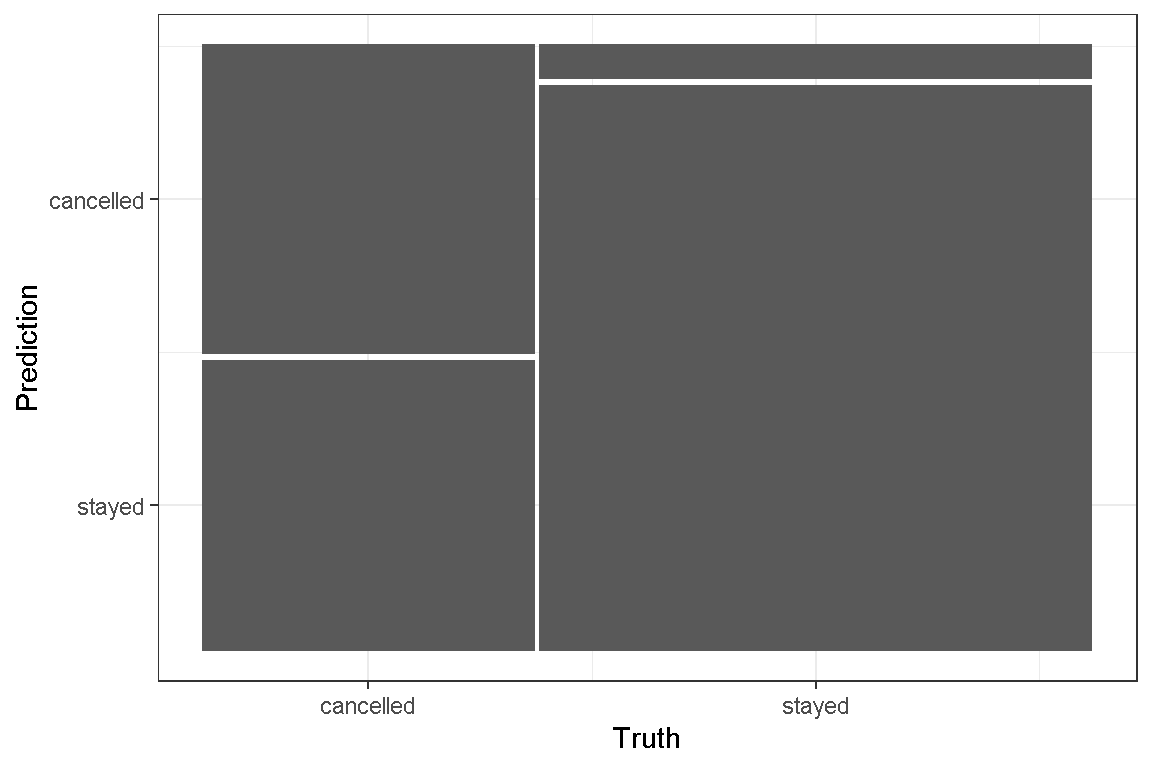
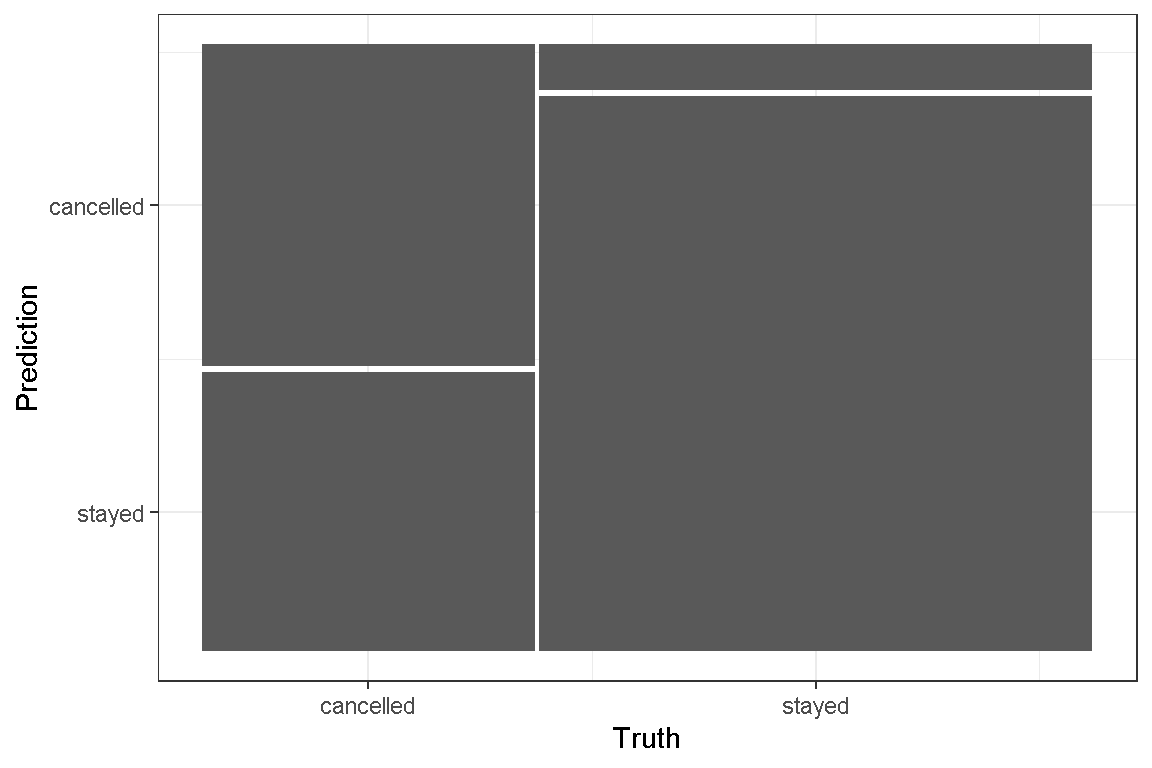
Add files via upload
manual commit

diff --git a/docs/ml/2024-02-10-hotel-cancellation/index.html b/docs/ml/2024-02-10-hotel-cancellation/index.html
@@ -123,12 +123,12 @@ code span.wa { color: #5e5e5e; font-style: italic; } /* Warning */
   <!--radix_placeholder_rmarkdown_metadata-->
 
 <script type="text/json" id="radix-rmarkdown-metadata">
-{"type":"list","attributes":{"names":{"type":"character","attributes":{},"value":["title","description","author","date","categories","output","canonical_url"]}},"value":[{"type":"character","attributes":{},"value":["Hotel reservation cancellations"]},{"type":"character","attributes":{},"value":["In this next exercise, we try and predict the probability that a hotel's reservations will eventually be cancelled, given information we have on hand, such as ADR, customer segment, and deposit type..."]},{"type":"list","attributes":{},"value":[{"type":"list","attributes":{"names":{"type":"character","attributes":{},"value":["name"]}},"value":[{"type":"character","attributes":{},"value":["Mark Y"]}]}]},{"type":"character","attributes":{},"value":["2024-02-10"]},{"type":"character","attributes":{},"value":["classification","logistic regression","LASSO regression","random forest","decision tree","naive bayes","knn","xgboost"]},{"type":"list","attributes":{"names":{"type":"character","attributes":{},"value":["distill::distill_article"]}},"value":[{"type":"list","attributes":{"names":{"type":"character","attributes":{},"value":["toc","toc_depth","toc_float","self_contained"]}},"value":[{"type":"logical","attributes":{},"value":[true]},{"type":"integer","attributes":{},"value":[6]},{"type":"logical","attributes":{},"value":[true]},{"type":"logical","attributes":{},"value":[false]}]}]},{"type":"character","attributes":{},"value":["https://yeokcmark.netlify.app/ml/2024-02-10-hotel-cancellation/"]}]}
+{"type":"list","attributes":{"names":{"type":"character","attributes":{},"value":["title","description","author","date","categories","output","editor_options","canonical_url"]}},"value":[{"type":"character","attributes":{},"value":["Hotel reservation cancellations"]},{"type":"character","attributes":{},"value":["In this next exercise, we try and predict the probability that a hotel's reservations will eventually be cancelled, given information we have on hand, such as ADR, customer segment, and deposit type..."]},{"type":"list","attributes":{},"value":[{"type":"list","attributes":{"names":{"type":"character","attributes":{},"value":["name"]}},"value":[{"type":"character","attributes":{},"value":["Mark Y"]}]}]},{"type":"character","attributes":{},"value":["2024-02-10"]},{"type":"character","attributes":{},"value":["classification","logistic regression","LASSO regression","random forest","decision tree","naive bayes","knn","xgboost"]},{"type":"list","attributes":{"names":{"type":"character","attributes":{},"value":["distill::distill_article"]}},"value":[{"type":"list","attributes":{"names":{"type":"character","attributes":{},"value":["toc","toc_depth","toc_float","self_contained"]}},"value":[{"type":"logical","attributes":{},"value":[true]},{"type":"integer","attributes":{},"value":[6]},{"type":"logical","attributes":{},"value":[true]},{"type":"logical","attributes":{},"value":[false]}]}]},{"type":"list","attributes":{"names":{"type":"character","attributes":{},"value":["chunk_output_type"]}},"value":[{"type":"character","attributes":{},"value":["console"]}]},{"type":"character","attributes":{},"value":["https://yeokcmark.netlify.app/ml/2024-02-10-hotel-cancellation/"]}]}
 </script>
 <!--/radix_placeholder_rmarkdown_metadata-->
   
   <script type="text/json" id="radix-resource-manifest">
-  {"type":"character","attributes":{},"value":["hotel-cancellation_files/anchor-4.2.2/anchor.min.js","hotel-cancellation_files/bowser-1.9.3/bowser.min.js","hotel-cancellation_files/crosstalk-1.2.1/css/crosstalk.min.css","hotel-cancellation_files/crosstalk-1.2.1/js/crosstalk.js","hotel-cancellation_files/crosstalk-1.2.1/js/crosstalk.js.map","hotel-cancellation_files/crosstalk-1.2.1/js/crosstalk.min.js","hotel-cancellation_files/crosstalk-1.2.1/js/crosstalk.min.js.map","hotel-cancellation_files/crosstalk-1.2.1/scss/crosstalk.scss","hotel-cancellation_files/datatables-binding-0.31/datatables.js","hotel-cancellation_files/datatables-css-0.0.0/datatables-crosstalk.css","hotel-cancellation_files/distill-2.2.21/template.v2.js","hotel-cancellation_files/dt-core-1.13.6/css/jquery.dataTables.extra.css","hotel-cancellation_files/dt-core-1.13.6/css/jquery.dataTables.min.css","hotel-cancellation_files/dt-core-1.13.6/js/jquery.dataTables.min.js","hotel-cancellation_files/figure-html5/unnamed-chunk-13-1.png","hotel-cancellation_files/figure-html5/unnamed-chunk-17-1.png","hotel-cancellation_files/figure-html5/unnamed-chunk-22-1.png","hotel-cancellation_files/figure-html5/unnamed-chunk-26-1.png","hotel-cancellation_files/figure-html5/unnamed-chunk-27-1.png","hotel-cancellation_files/figure-html5/unnamed-chunk-28-1.png","hotel-cancellation_files/figure-html5/unnamed-chunk-5-1.png","hotel-cancellation_files/figure-html5/unnamed-chunk-6-1.png","hotel-cancellation_files/header-attrs-2.25/header-attrs.js","hotel-cancellation_files/htmlwidgets-1.6.4/htmlwidgets.js","hotel-cancellation_files/jquery-3.6.0/jquery-3.6.0.js","hotel-cancellation_files/jquery-3.6.0/jquery-3.6.0.min.js","hotel-cancellation_files/jquery-3.6.0/jquery-3.6.0.min.map","hotel-cancellation_files/popper-2.6.0/popper.min.js","hotel-cancellation_files/tippy-6.2.7/tippy-bundle.umd.min.js","hotel-cancellation_files/tippy-6.2.7/tippy-light-border.css","hotel-cancellation_files/tippy-6.2.7/tippy.css","hotel-cancellation_files/tippy-6.2.7/tippy.umd.min.js","hotel-cancellation_files/webcomponents-2.0.0/webcomponents.js"]}
+  {"type":"character","attributes":{},"value":["hotel-cancellation_files/anchor-4.2.2/anchor.min.js","hotel-cancellation_files/bowser-1.9.3/bowser.min.js","hotel-cancellation_files/crosstalk-1.2.1/css/crosstalk.min.css","hotel-cancellation_files/crosstalk-1.2.1/js/crosstalk.js","hotel-cancellation_files/crosstalk-1.2.1/js/crosstalk.js.map","hotel-cancellation_files/crosstalk-1.2.1/js/crosstalk.min.js","hotel-cancellation_files/crosstalk-1.2.1/js/crosstalk.min.js.map","hotel-cancellation_files/crosstalk-1.2.1/scss/crosstalk.scss","hotel-cancellation_files/datatables-binding-0.31/datatables.js","hotel-cancellation_files/datatables-css-0.0.0/datatables-crosstalk.css","hotel-cancellation_files/distill-2.2.21/template.v2.js","hotel-cancellation_files/dt-core-1.13.6/css/jquery.dataTables.extra.css","hotel-cancellation_files/dt-core-1.13.6/css/jquery.dataTables.min.css","hotel-cancellation_files/dt-core-1.13.6/js/jquery.dataTables.min.js","hotel-cancellation_files/figure-html5/unnamed-chunk-13-1.png","hotel-cancellation_files/figure-html5/unnamed-chunk-17-1.png","hotel-cancellation_files/figure-html5/unnamed-chunk-22-1.png","hotel-cancellation_files/figure-html5/unnamed-chunk-26-1.png","hotel-cancellation_files/figure-html5/unnamed-chunk-27-1.png","hotel-cancellation_files/figure-html5/unnamed-chunk-28-1.png","hotel-cancellation_files/figure-html5/unnamed-chunk-5-1.png","hotel-cancellation_files/figure-html5/unnamed-chunk-6-1.png","hotel-cancellation_files/header-attrs-2.25/header-attrs.js","hotel-cancellation_files/htmlwidgets-1.6.4/htmlwidgets.js","hotel-cancellation_files/jquery-3.6.0/jquery-3.6.0.js","hotel-cancellation_files/jquery-3.6.0/jquery-3.6.0.min.js","hotel-cancellation_files/jquery-3.6.0/jquery-3.6.0.min.map","hotel-cancellation_files/popper-2.6.0/popper.min.js","hotel-cancellation_files/tippy-6.2.7/tippy-bundle.umd.min.js","hotel-cancellation_files/tippy-6.2.7/tippy-light-border.css","hotel-cancellation_files/tippy-6.2.7/tippy.css","hotel-cancellation_files/tippy-6.2.7/tippy.umd.min.js","hotel-cancellation_files/webcomponents-2.0.0/webcomponents.js","hotels.csv"]}
   </script>
   <!--radix_placeholder_navigation_in_header-->
 <meta name="distill:offset" content="../.."/>
@@ -14420,7 +14420,10 @@ Nikkei225
 <li><a href="#first-fit-using-workflow_map" id="toc-first-fit-using-workflow_map">First Fit using workflow_map</a></li>
 <li><a href="#tuning-hyper-parameters" id="toc-tuning-hyper-parameters">Tuning hyper-parameters</a></li>
 <li><a href="#finalize-workflow-and-last-fit" id="toc-finalize-workflow-and-last-fit">Finalize workflow and last fit</a></li>
-<li><a href="#assessing-the-workflow" id="toc-assessing-the-workflow">Assessing the workflow</a></li>
+<li><a href="#assessing-the-workflow" id="toc-assessing-the-workflow">Assessing the workflow</a>
+<ul>
+<li><a href="#bonus-material-added-15-feb-2024" id="toc-bonus-material-added-15-feb-2024">BONUS MATERIAL ADDED 15 Feb 2024</a></li>
+</ul></li>
 </ul>
 </nav>
 </div>
@@ -14546,8 +14549,8 @@ d-byline {
 <span>  <span class='fu'>DT</span><span class='fu'>::</span><span class='fu'><a href='https://rdrr.io/pkg/DT/man/datatable.html'>datatable</a></span><span class='op'>(</span><span class='op'>)</span> <span class='op'>%&gt;%</span> </span>
 <span>  <span class='fu'>formatRound</span><span class='op'>(</span><span class='st'>"absCorr"</span>, digits <span class='op'>=</span> <span class='fl'>3</span><span class='op'>)</span></span></code></pre>
 </div>
-<div class="datatables html-widget html-fill-item" id="htmlwidget-cb00be3adf5120ca7963" style="width:100%;height:auto;"></div>
-<script type="application/json" data-for="htmlwidget-cb00be3adf5120ca7963">{"x":{"filter":"none","vertical":false,"data":[["1","2","3","4","5","6","7","8","9","10","11","12","13","14","15","16","17","18","19","20","21","22","23","24","25","26","27","28","29","30","31","32","33","34","35","36","37","38","39","40","41","42","43","44","45","46","47","48","49","50","51","52","53","54","55","56","57","58","59","60","61","62","63","64","65","66","67","68","69","70","71","72","73","74","75","76","77","78","79","80","81","82","83","84","85","86","87","88","89","90","91","92","93","94","95","96","97","98","99","100","101","102","103","104","105"],["arrival_date_week_number","stays_in_week_nights","adr","adr","adr","total_of_special_requests","days_in_waiting_list","stays_in_week_nights","previous_bookings_not_canceled","arrival_date_week_number","total_of_special_requests","previous_cancellations","adults","required_car_parking_spaces","total_of_special_requests","previous_bookings_not_canceled","total_of_special_requests","booking_changes","total_of_special_requests","adults","adults","previous_cancellations","stays_in_weekend_nights","total_of_special_requests","total_of_special_requests","adr","previous_bookings_not_canceled","total_of_special_requests","adr","total_of_special_requests","booking_changes","arrival_date_day_of_month","adr","required_car_parking_spaces","adr","booking_changes","required_car_parking_spaces","adr","required_car_parking_spaces","days_in_waiting_list","days_in_waiting_list","total_of_special_requests","booking_changes","children","adr","previous_bookings_not_canceled","children","total_of_special_requests","required_car_parking_spaces","children","previous_bookings_not_canceled","children","adr","arrival_date_year","total_of_special_requests","previous_cancellations","days_in_waiting_list","children","stays_in_week_nights","booking_changes","required_car_parking_spaces","adr","adults","previous_bookings_not_canceled","stays_in_week_nights","previous_cancellations","booking_changes","total_of_special_requests","adults","previous_cancellations","required_car_parking_spaces","days_in_waiting_list","days_in_waiting_list","previous_bookings_not_canceled","stays_in_weekend_nights","previous_bookings_not_canceled","adr","required_car_parking_spaces","required_car_parking_spaces","stays_in_weekend_nights","stays_in_weekend_nights","stays_in_week_nights","required_car_parking_spaces","children","previous_cancellations","required_car_parking_spaces","previous_cancellations","days_in_waiting_list","booking_changes","booking_changes","days_in_waiting_list","required_car_parking_spaces","days_in_waiting_list","children","previous_cancellations","days_in_waiting_list","booking_changes","total_of_special_requests","arrival_date_day_of_month","days_in_waiting_list","required_car_parking_spaces","adults","previous_bookings_not_canceled","arrival_date_day_of_month","booking_changes"],["arrival_date_year","stays_in_weekend_nights","children","adults","arrival_date_year","adr","lead_time","lead_time","previous_cancellations","lead_time","adults","arrival_date_year","lead_time","lead_time","arrival_date_year","adults","children","stays_in_week_nights","lead_time","stays_in_week_nights","stays_in_weekend_nights","lead_time","lead_time","days_in_waiting_list","required_car_parking_spaces","arrival_date_week_number","lead_time","stays_in_weekend_nights","previous_bookings_not_canceled","stays_in_week_nights","children","arrival_date_week_number","previous_cancellations","booking_changes","stays_in_week_nights","stays_in_weekend_nights","children","lead_time","adr","arrival_date_year","stays_in_weekend_nights","booking_changes","adults","arrival_date_year","stays_in_weekend_nights","stays_in_week_nights","stays_in_weekend_nights","previous_cancellations","previous_bookings_not_canceled","stays_in_week_nights","stays_in_weekend_nights","lead_time","days_in_waiting_list","lead_time","previous_bookings_not_canceled","arrival_date_week_number","children","adults","arrival_date_year","arrival_date_year","days_in_waiting_list","arrival_date_day_of_month","arrival_date_year","arrival_date_year","arrival_date_day_of_month","arrival_date_day_of_month","previous_cancellations","arrival_date_week_number","arrival_date_week_number","children","stays_in_week_nights","arrival_date_week_number","arrival_date_day_of_month","children","arrival_date_year","arrival_date_week_number","booking_changes","stays_in_weekend_nights","previous_cancellations","arrival_date_week_number","arrival_date_day_of_month","arrival_date_week_number","adults","arrival_date_day_of_month","stays_in_week_nights","arrival_date_year","stays_in_weekend_nights","booking_changes","previous_bookings_not_canceled","arrival_date_day_of_month","previous_bookings_not_canceled","arrival_date_day_of_month","adults","arrival_date_week_number","adults","previous_cancellations","arrival_date_week_number","arrival_date_day_of_month","lead_time","stays_in_week_nights","arrival_date_week_number","arrival_date_day_of_month","arrival_date_day_of_month","arrival_date_year","lead_time"],[0.5405613307874954,0.498968818495529,0.3207177657820852,0.2306412155234818,0.1975800886400962,0.1721852643693353,0.1700841842637794,0.1657993638793311,0.15272811485691,0.1268708127454571,0.1228835456997215,0.1198220704550027,0.1195186926129757,0.1164505701391862,0.1085314863380638,0.1079831724827493,0.1020895362098378,0.09620944596835111,0.0957120488548073,0.09297551260391308,0.09187102011631956,0.08604180192778839,0.08567113294880183,0.08272971877007684,0.08262633831523619,0.07579064299576761,0.07354816794373571,0.07267083049399213,0.07214419574746221,0.06819178170957163,0.06699333645986587,0.0668092529884865,0.06564563827526486,0.06562019136715087,0.06523748026546305,0.06328131589027702,0.06317201757236145,0.06307685251676895,0.05662809194034007,0.05649660204924033,0.05415111348359204,0.05283343574930799,0.05167277353143066,0.04965296275067756,0.04934190602595018,0.04874254953327321,0.04860346789941635,0.04838411840222057,0.04765308694330234,0.04747090051105603,0.04271523495025435,0.04128477628292025,0.04075641204562963,0.04014209975516145,0.03782377572582717,0.03550090912066414,0.03465146663545018,0.03369929023272769,0.03088329734011869,0.03087234960685812,0.03060004596196076,0.03024519476199183,0.02963514415271484,0.02921805116092041,0.02817352138830092,0.02701077611969894,0.02699266259114281,0.02614936358995882,0.02590905735261526,0.02566217508109978,0.0248594227478392,0.02293302665244991,0.02272753516251932,0.02190423241462364,0.02149736544836407,0.02090355167404204,0.01961767378533941,0.0185538091761699,0.01849225038140525,0.01820765272138711,0.01635429954437221,0.01555829732775104,0.01478481720246625,0.0139950104758863,0.01399243093617732,0.01368441086692346,0.01277461887882216,0.01163394459403217,0.01160752885456835,0.01061285599602672,0.009396977854353705,0.008683466451623795,0.008283347421431355,0.007786473590684748,0.006738096139609544,0.005928940884109665,0.005507503474121448,0.00306212414032492,0.002267552702832831,0.002019810099214027,0.001920422860733228,0.001565979065886907,0.0002997867639672441,0.000221019210448873,0.0001488300727780889]],"container":"<table class=\"display\">\n  <thead>\n    <tr>\n      <th> <\/th>\n      <th>column1<\/th>\n      <th>column2<\/th>\n      <th>absCorr<\/th>\n    <\/tr>\n  <\/thead>\n<\/table>","options":{"columnDefs":[{"targets":3,"render":"function(data, type, row, meta) {\n    return type !== 'display' ? data : DTWidget.formatRound(data, 3, 3, \",\", \".\", null);\n  }"},{"className":"dt-right","targets":3},{"orderable":false,"targets":0},{"name":" ","targets":0},{"name":"column1","targets":1},{"name":"column2","targets":2},{"name":"absCorr","targets":3}],"order":[],"autoWidth":false,"orderClasses":false},"selection":{"mode":"multiple","selected":null,"target":"row","selectable":null}},"evals":["options.columnDefs.0.render"],"jsHooks":[]}</script>
+<div class="datatables html-widget html-fill-item" id="htmlwidget-5d90033ec410cedc316c" style="width:100%;height:auto;"></div>
+<script type="application/json" data-for="htmlwidget-5d90033ec410cedc316c">{"x":{"filter":"none","vertical":false,"data":[["1","2","3","4","5","6","7","8","9","10","11","12","13","14","15","16","17","18","19","20","21","22","23","24","25","26","27","28","29","30","31","32","33","34","35","36","37","38","39","40","41","42","43","44","45","46","47","48","49","50","51","52","53","54","55","56","57","58","59","60","61","62","63","64","65","66","67","68","69","70","71","72","73","74","75","76","77","78","79","80","81","82","83","84","85","86","87","88","89","90","91","92","93","94","95","96","97","98","99","100","101","102","103","104","105"],["arrival_date_week_number","stays_in_week_nights","adr","adr","adr","total_of_special_requests","days_in_waiting_list","stays_in_week_nights","previous_bookings_not_canceled","arrival_date_week_number","total_of_special_requests","previous_cancellations","adults","required_car_parking_spaces","total_of_special_requests","previous_bookings_not_canceled","total_of_special_requests","booking_changes","total_of_special_requests","adults","adults","previous_cancellations","stays_in_weekend_nights","total_of_special_requests","total_of_special_requests","adr","previous_bookings_not_canceled","total_of_special_requests","adr","total_of_special_requests","booking_changes","arrival_date_day_of_month","adr","required_car_parking_spaces","adr","booking_changes","required_car_parking_spaces","adr","required_car_parking_spaces","days_in_waiting_list","days_in_waiting_list","total_of_special_requests","booking_changes","children","adr","previous_bookings_not_canceled","children","total_of_special_requests","required_car_parking_spaces","children","previous_bookings_not_canceled","children","adr","arrival_date_year","total_of_special_requests","previous_cancellations","days_in_waiting_list","children","stays_in_week_nights","booking_changes","required_car_parking_spaces","adr","adults","previous_bookings_not_canceled","stays_in_week_nights","previous_cancellations","booking_changes","total_of_special_requests","adults","previous_cancellations","required_car_parking_spaces","days_in_waiting_list","days_in_waiting_list","previous_bookings_not_canceled","stays_in_weekend_nights","previous_bookings_not_canceled","adr","required_car_parking_spaces","required_car_parking_spaces","stays_in_weekend_nights","stays_in_weekend_nights","stays_in_week_nights","required_car_parking_spaces","children","previous_cancellations","required_car_parking_spaces","previous_cancellations","days_in_waiting_list","booking_changes","booking_changes","days_in_waiting_list","required_car_parking_spaces","days_in_waiting_list","children","previous_cancellations","days_in_waiting_list","booking_changes","total_of_special_requests","arrival_date_day_of_month","days_in_waiting_list","required_car_parking_spaces","adults","previous_bookings_not_canceled","arrival_date_day_of_month","booking_changes"],["arrival_date_year","stays_in_weekend_nights","children","adults","arrival_date_year","adr","lead_time","lead_time","previous_cancellations","lead_time","adults","arrival_date_year","lead_time","lead_time","arrival_date_year","adults","children","stays_in_week_nights","lead_time","stays_in_week_nights","stays_in_weekend_nights","lead_time","lead_time","days_in_waiting_list","required_car_parking_spaces","arrival_date_week_number","lead_time","stays_in_weekend_nights","previous_bookings_not_canceled","stays_in_week_nights","children","arrival_date_week_number","previous_cancellations","booking_changes","stays_in_week_nights","stays_in_weekend_nights","children","lead_time","adr","arrival_date_year","stays_in_weekend_nights","booking_changes","adults","arrival_date_year","stays_in_weekend_nights","stays_in_week_nights","stays_in_weekend_nights","previous_cancellations","previous_bookings_not_canceled","stays_in_week_nights","stays_in_weekend_nights","lead_time","days_in_waiting_list","lead_time","previous_bookings_not_canceled","arrival_date_week_number","children","adults","arrival_date_year","arrival_date_year","days_in_waiting_list","arrival_date_day_of_month","arrival_date_year","arrival_date_year","arrival_date_day_of_month","arrival_date_day_of_month","previous_cancellations","arrival_date_week_number","arrival_date_week_number","children","stays_in_week_nights","arrival_date_week_number","arrival_date_day_of_month","children","arrival_date_year","arrival_date_week_number","booking_changes","stays_in_weekend_nights","previous_cancellations","arrival_date_week_number","arrival_date_day_of_month","arrival_date_week_number","adults","arrival_date_day_of_month","stays_in_week_nights","arrival_date_year","stays_in_weekend_nights","booking_changes","previous_bookings_not_canceled","arrival_date_day_of_month","previous_bookings_not_canceled","arrival_date_day_of_month","adults","arrival_date_week_number","adults","previous_cancellations","arrival_date_week_number","arrival_date_day_of_month","lead_time","stays_in_week_nights","arrival_date_week_number","arrival_date_day_of_month","arrival_date_day_of_month","arrival_date_year","lead_time"],[0.5405613307874954,0.498968818495529,0.3207177657820852,0.2306412155234818,0.1975800886400962,0.1721852643693353,0.1700841842637794,0.1657993638793311,0.15272811485691,0.1268708127454571,0.1228835456997215,0.1198220704550027,0.1195186926129757,0.1164505701391862,0.1085314863380638,0.1079831724827493,0.1020895362098378,0.09620944596835111,0.0957120488548073,0.09297551260391308,0.09187102011631956,0.08604180192778839,0.08567113294880183,0.08272971877007684,0.08262633831523619,0.07579064299576761,0.07354816794373571,0.07267083049399213,0.07214419574746221,0.06819178170957163,0.06699333645986587,0.0668092529884865,0.06564563827526486,0.06562019136715087,0.06523748026546305,0.06328131589027702,0.06317201757236145,0.06307685251676895,0.05662809194034007,0.05649660204924033,0.05415111348359204,0.05283343574930799,0.05167277353143066,0.04965296275067756,0.04934190602595018,0.04874254953327321,0.04860346789941635,0.04838411840222057,0.04765308694330234,0.04747090051105603,0.04271523495025435,0.04128477628292025,0.04075641204562963,0.04014209975516145,0.03782377572582717,0.03550090912066414,0.03465146663545018,0.03369929023272769,0.03088329734011869,0.03087234960685812,0.03060004596196076,0.03024519476199183,0.02963514415271484,0.02921805116092041,0.02817352138830092,0.02701077611969894,0.02699266259114281,0.02614936358995882,0.02590905735261526,0.02566217508109978,0.0248594227478392,0.02293302665244991,0.02272753516251932,0.02190423241462364,0.02149736544836407,0.02090355167404204,0.01961767378533941,0.0185538091761699,0.01849225038140525,0.01820765272138711,0.01635429954437221,0.01555829732775104,0.01478481720246625,0.0139950104758863,0.01399243093617732,0.01368441086692346,0.01277461887882216,0.01163394459403217,0.01160752885456835,0.01061285599602672,0.009396977854353705,0.008683466451623795,0.008283347421431355,0.007786473590684748,0.006738096139609544,0.005928940884109665,0.005507503474121448,0.00306212414032492,0.002267552702832831,0.002019810099214027,0.001920422860733228,0.001565979065886907,0.0002997867639672441,0.000221019210448873,0.0001488300727780889]],"container":"<table class=\"display\">\n  <thead>\n    <tr>\n      <th> <\/th>\n      <th>column1<\/th>\n      <th>column2<\/th>\n      <th>absCorr<\/th>\n    <\/tr>\n  <\/thead>\n<\/table>","options":{"columnDefs":[{"targets":3,"render":"function(data, type, row, meta) {\n    return type !== 'display' ? data : DTWidget.formatRound(data, 3, 3, \",\", \".\", null);\n  }"},{"className":"dt-right","targets":3},{"orderable":false,"targets":0},{"name":" ","targets":0},{"name":"column1","targets":1},{"name":"column2","targets":2},{"name":"absCorr","targets":3}],"order":[],"autoWidth":false,"orderClasses":false},"selection":{"mode":"multiple","selected":null,"target":"row","selectable":null}},"evals":["options.columnDefs.0.render"],"jsHooks":[]}</script>
 </div>
 <h3 id="splitting-the-data">Splitting the Data</h3>
 <p>As Julie Silge would call it, here is where we decide how to spend our “data budget”. A word of caution here for those with incompetent hardware. The dataset is considered “large” with respect to the laptop I have, which is a “hand me down” gaming rig I inherited from my son, originally purchased in 2017.</p>
@@ -14841,7 +14844,7 @@ d-byline {
 <span><span class='va'>dummy_rec_rf_wflow</span> <span class='op'>&lt;-</span></span>
 <span>  <span class='fu'>workflow</span><span class='op'>(</span><span class='op'>)</span> <span class='op'>%&gt;%</span> </span>
 <span>  <span class='fu'>add_recipe</span><span class='op'>(</span><span class='va'>dummy_rec</span><span class='op'>)</span> <span class='op'>%&gt;%</span> </span>
-<span>  <span class='fu'>add_model</span><span class='op'>(</span><span class='va'>rf_spec</span><span class='op'>)</span> <span class='op'>%&gt;%</span> </span>
+<span>  <span class='fu'>add_model</span><span class='op'>(</span><span class='va'>rf_spec_for_tuning</span><span class='op'>)</span> <span class='op'>%&gt;%</span> </span>
 <span>  <span class='fu'>finalize_workflow</span><span class='op'>(</span><span class='va'>tuned_parameters</span><span class='op'>)</span></span>
 <span></span>
 <span><span class='co'># last fit</span></span>
@@ -14860,9 +14863,9 @@ d-byline {
 <pre><code>    ┌────────────────────────────────────────────────────┐
     │ .metric    .estimator   .estimate   .config        │
     ├────────────────────────────────────────────────────┤
-    │ accuracy   binary           0.782   Preprocessor1_ │
+    │ accuracy   binary           0.779   Preprocessor1_ │
     │                                     Model1         │
-    │ roc_auc    binary           0.837   Preprocessor1_ │
+    │ roc_auc    binary           0.839   Preprocessor1_ │
     │                                     Model1         │
     └────────────────────────────────────────────────────┘</code></pre>
 <p>Column names: .metric, .estimator, .estimate, .config</p>
@@ -14876,8 +14879,8 @@ d-byline {
 </div>
 <pre><code>           Truth
 Prediction  cancelled stayed
-  cancelled       577    106
-  stayed          544   1759</code></pre>
+  cancelled       601    141
+  stayed          520   1724</code></pre>
 </div>
 <p>This matrix can also be visualized as a plot:</p>
 <div class="layout-chunk" data-layout="l-body-outset">
@@ -14900,7 +14903,7 @@ Prediction  cancelled stayed
 <pre><code>            ┌───────────────────────────────────┐
             │ .metric    .estimator   .estimate │
             ├───────────────────────────────────┤
-            │ accuracy   binary           0.782 │
+            │ accuracy   binary           0.779 │
             └───────────────────────────────────┘</code></pre>
 <p>Column names: .metric, .estimator, .estimate</p>
 </div>
@@ -14914,7 +14917,7 @@ Prediction  cancelled stayed
 <pre><code>           ┌──────────────────────────────────────┐
            │ .metric       .estimator   .estimate │
            ├──────────────────────────────────────┤
-           │ sensitivity   binary           0.515 │
+           │ sensitivity   binary           0.536 │
            └──────────────────────────────────────┘</code></pre>
 <p>Column names: .metric, .estimator, .estimate</p>
 </div>
@@ -14928,7 +14931,7 @@ Prediction  cancelled stayed
 <pre><code>           ┌──────────────────────────────────────┐
            │ .metric       .estimator   .estimate │
            ├──────────────────────────────────────┤
-           │ specificity   binary           0.943 │
+           │ specificity   binary           0.924 │
            └──────────────────────────────────────┘</code></pre>
 <p>Column names: .metric, .estimator, .estimate</p>
 </div>
@@ -14968,9 +14971,138 @@ Prediction  cancelled stayed
 <p>The top 3 features determining cancellations are non-refundable deposit, lead-time, and the number of previous cancellations.</p>
 <div class="layout-chunk" data-layout="l-body-outset">
 <div class="sourceCode">
-<pre class="sourceCode r"><code class="sourceCode r"><span><span class='fu'><a href='https://rdrr.io/r/base/save.html'>save.image</a></span><span class='op'>(</span><span class='st'>"hotel_cancellation_data.RData"</span><span class='op'>)</span></span></code></pre>
+<pre class="sourceCode r"><code class="sourceCode r"><span><span class='co'>#save.image("hotel_cancellation_data.RData")</span></span></code></pre>
 </div>
 </div>
+<h3 id="bonus-material-added-15-feb-2024">BONUS MATERIAL ADDED 15 Feb 2024</h3>
+<p>I upgraded my PC to a Ryzen 3950x (with 16 cpu cores) with 32GB ram, and was keen to test it out. I used it to tune the random forest model using the full dataset. That process took 6 hours to complete. It gave me a different set of hyper parameters (mtry 16 vs 6, min_n 18 vs 9). Let’s see how it compares with the model based on 10% data.</p>
+<div class="layout-chunk" data-layout="l-body-outset">
+<div class="sourceCode">
+<pre class="sourceCode r"><code class="sourceCode r"><span><span class='fu'><a href='https://rdrr.io/r/base/Random.html'>set.seed</a></span><span class='op'>(</span><span class='fl'>2024012901</span><span class='op'>)</span></span>
+<span><span class='va'>data_split_full</span> <span class='op'>&lt;-</span></span>
+<span>  <span class='va'>data</span> <span class='op'>%&gt;%</span> </span>
+<span>  <span class='fu'>dplyr</span><span class='fu'>::</span><span class='fu'><a href='https://dplyr.tidyverse.org/reference/select.html'>select</a></span><span class='op'>(</span><span class='va'>hotel</span>, <span class='va'>is_canceled</span>, <span class='va'>arrival_date</span>, </span>
+<span>                <span class='va'>market_segment</span>, <span class='va'>distribution_channel</span>, <span class='va'>reserved_room_type</span>,</span>
+<span>                <span class='va'>deposit_type</span>, <span class='va'>customer_type</span>, <span class='va'>lead_time</span>, <span class='va'>is_repeated_guest</span>,</span>
+<span>                <span class='va'>previous_cancellations</span>, <span class='va'>previous_bookings_not_canceled</span>, <span class='va'>booking_changes</span>,</span>
+<span>                <span class='va'>days_in_waiting_list</span>, <span class='va'>adr</span><span class='op'>)</span> <span class='op'>%&gt;%</span> </span>
+<span>  <span class='fu'><a href='https://rdrr.io/r/stats/filter.html'>filter</a></span><span class='op'>(</span><span class='va'>adr</span> <span class='op'>&gt;=</span><span class='fl'>0</span>, <span class='va'>adr</span> <span class='op'>&lt;</span> <span class='fl'>4000</span><span class='op'>)</span> <span class='op'>%&gt;%</span>  <span class='co'>#remove negative adr and outlier</span></span>
+<span>  <span class='fu'>initial_split</span><span class='op'>(</span>strata <span class='op'>=</span> <span class='va'>is_canceled</span><span class='op'>)</span></span>
+<span></span>
+<span><span class='va'>data_train_full</span> <span class='op'>&lt;-</span></span>
+<span>  <span class='va'>data_split_full</span> <span class='op'>%&gt;%</span> </span>
+<span>  <span class='fu'>training</span><span class='op'>(</span><span class='op'>)</span></span>
+<span><span class='va'>data_test_full</span> <span class='op'>&lt;-</span></span>
+<span>  <span class='va'>data_split_full</span> <span class='op'>%&gt;%</span> </span>
+<span>  <span class='fu'>testing</span><span class='op'>(</span><span class='op'>)</span></span>
+<span></span>
+<span><span class='va'>dummy_rec_full</span> <span class='op'>&lt;-</span></span>
+<span>    <span class='fu'>recipes</span><span class='fu'>::</span><span class='fu'><a href='https://recipes.tidymodels.org/reference/recipe.html'>recipe</a></span><span class='op'>(</span>formula <span class='op'>=</span> <span class='va'>is_canceled</span> <span class='op'>~</span><span class='va'>.</span>,</span>
+<span>                  data <span class='op'>=</span> <span class='va'>data_train_full</span><span class='op'>)</span> <span class='op'>%&gt;%</span> </span>
+<span>  <span class='fu'>step_date</span><span class='op'>(</span><span class='va'>arrival_date</span>, features <span class='op'>=</span> <span class='fu'><a href='https://rdrr.io/r/base/c.html'>c</a></span><span class='op'>(</span><span class='st'>"dow"</span>, <span class='st'>"month"</span>, <span class='st'>"year"</span><span class='op'>)</span>, role <span class='op'>=</span> <span class='st'>"predictors"</span><span class='op'>)</span> <span class='op'>%&gt;%</span> </span>
+<span>  <span class='fu'>update_role</span><span class='op'>(</span><span class='va'>arrival_date</span>, new_role <span class='op'>=</span> <span class='st'>"date"</span><span class='op'>)</span> <span class='op'>%&gt;%</span> </span>
+<span>  <span class='fu'>step_dummy</span><span class='op'>(</span><span class='fu'>all_nominal_predictors</span><span class='op'>(</span><span class='op'>)</span><span class='op'>)</span> <span class='op'>%&gt;%</span> </span>
+<span>  <span class='fu'>step_zv</span><span class='op'>(</span><span class='fu'>all_numeric_predictors</span><span class='op'>(</span><span class='op'>)</span><span class='op'>)</span></span>
+<span></span>
+<span></span>
+<span><span class='co'># finalize workflow</span></span>
+<span><span class='va'>dummy_rec_full_rf_10percent_wflow</span> <span class='op'>&lt;-</span></span>
+<span>  <span class='fu'>workflow</span><span class='op'>(</span><span class='op'>)</span> <span class='op'>%&gt;%</span> </span>
+<span>  <span class='fu'>add_recipe</span><span class='op'>(</span><span class='va'>dummy_rec_full</span><span class='op'>)</span> <span class='op'>%&gt;%</span> </span>
+<span>  <span class='fu'>add_model</span><span class='op'>(</span><span class='va'>rf_spec_for_tuning</span><span class='op'>)</span> <span class='op'>%&gt;%</span> </span>
+<span>  <span class='fu'>finalize_workflow</span><span class='op'>(</span><span class='va'>tuned_parameters</span><span class='op'>)</span></span>
+<span></span>
+<span><span class='va'>rf_spec_full_data_tuning</span> <span class='op'>&lt;-</span></span>
+<span>  <span class='va'>rf_spec</span> <span class='op'>%&gt;%</span> </span>
+<span>  <span class='fu'>set_args</span><span class='op'>(</span>mtry <span class='op'>=</span> <span class='fl'>16</span>,</span>
+<span>           min_n <span class='op'>=</span> <span class='fl'>18</span><span class='op'>)</span></span>
+<span></span>
+<span><span class='va'>dummy_rec_full_rf_full_data_tune_wflow</span> <span class='op'>&lt;-</span></span>
+<span>  <span class='fu'>workflow</span><span class='op'>(</span><span class='op'>)</span> <span class='op'>%&gt;%</span> </span>
+<span>  <span class='fu'>add_recipe</span><span class='op'>(</span><span class='va'>dummy_rec_full</span><span class='op'>)</span> <span class='op'>%&gt;%</span> </span>
+<span>  <span class='fu'>add_model</span><span class='op'>(</span><span class='va'>rf_spec_full_data_tuning</span><span class='op'>)</span></span>
+<span></span>
+<span><span class='co'># last fit</span></span>
+<span><span class='va'>rf_10percent_tune_final_fit</span> <span class='op'>&lt;-</span></span>
+<span>  <span class='va'>dummy_rec_full_rf_10percent_wflow</span> <span class='op'>%&gt;%</span> </span>
+<span>  <span class='fu'>last_fit</span><span class='op'>(</span><span class='va'>data_split_full</span><span class='op'>)</span></span>
+<span></span>
+<span><span class='va'>rf_full_data_tune_final_fit</span> <span class='op'>&lt;-</span></span>
+<span>  <span class='va'>dummy_rec_full_rf_full_data_tune_wflow</span> <span class='op'>%&gt;%</span> </span>
+<span>  <span class='fu'>last_fit</span><span class='op'>(</span><span class='va'>data_split_full</span><span class='op'>)</span></span>
+<span></span>
+<span><span class='co'>#compare</span></span>
+<span><span class='va'>rf_10percent_tune_final_fit</span> <span class='op'>%&gt;%</span> </span>
+<span>  <span class='fu'>collect_metrics</span><span class='op'>(</span><span class='op'>)</span></span>
+<span><span class='va'>rf_full_data_tune_final_fit</span> <span class='op'>%&gt;%</span> </span>
+<span>  <span class='fu'>collect_metrics</span><span class='op'>(</span><span class='op'>)</span></span>
+<span></span>
+<span><span class='va'>rf_10percent_tune_final_fit</span> <span class='op'>%&gt;%</span> </span>
+<span>  <span class='va'>collect_predictions</span> <span class='op'>%&gt;%</span> </span>
+<span>  <span class='fu'>sensitivity</span><span class='op'>(</span><span class='va'>is_canceled</span>, <span class='va'>.pred_class</span><span class='op'>)</span></span>
+<span></span>
+<span><span class='va'>rf_full_data_tune_final_fit</span> <span class='op'>%&gt;%</span> </span>
+<span>  <span class='va'>collect_predictions</span> <span class='op'>%&gt;%</span> </span>
+<span>  <span class='fu'>sensitivity</span><span class='op'>(</span><span class='va'>is_canceled</span>, <span class='va'>.pred_class</span><span class='op'>)</span></span>
+<span></span>
+<span><span class='va'>rf_10percent_tune_final_fit</span> <span class='op'>%&gt;%</span> </span>
+<span>  <span class='va'>collect_predictions</span> <span class='op'>%&gt;%</span> </span>
+<span>  <span class='fu'>specificity</span><span class='op'>(</span><span class='va'>is_canceled</span>, <span class='va'>.pred_class</span><span class='op'>)</span></span>
+<span></span>
+<span><span class='va'>rf_full_data_tune_final_fit</span> <span class='op'>%&gt;%</span> </span>
+<span>  <span class='va'>collect_predictions</span> <span class='op'>%&gt;%</span> </span>
+<span>  <span class='fu'>specificity</span><span class='op'>(</span><span class='va'>is_canceled</span>, <span class='va'>.pred_class</span><span class='op'>)</span></span></code></pre>
+</div>
+</div>
+<p>Here is a summary table of the metrics:</p>
+<table style="width:96%;">
+<colgroup>
+<col style="width: 29%" />
+<col style="width: 13%" />
+<col style="width: 14%" />
+<col style="width: 18%" />
+<col style="width: 18%" />
+</colgroup>
+<thead>
+<tr class="header">
+<th>model</th>
+<th>roc_auc</th>
+<th>accuracy</th>
+<th>sensitivity</th>
+<th>specificity</th>
+</tr>
+</thead>
+<tbody>
+<tr class="odd">
+<td>random forest<br />
+tune: 10% data<br />
+fit: 10% data</td>
+<td>0.839</td>
+<td>0.779</td>
+<td>0.536</td>
+<td>0.924</td>
+</tr>
+<tr class="even">
+<td>random forest<br />
+tune: 10% data<br />
+fit: full dataset</td>
+<td>0.867</td>
+<td>0.790</td>
+<td>0.484</td>
+<td>0.97</td>
+</tr>
+<tr class="odd">
+<td>random forest<br />
+tune: full dataset<br />
+fit: full dataset</td>
+<td>0.886</td>
+<td>0.812</td>
+<td>0.638</td>
+<td>0.914</td>
+</tr>
+</tbody>
+</table>
+<p>I’m not experienced as yet to be able to decide if the improvement in model performance is worth the additional resources spent tuning the model (1 hour vs approximately 7 hours).</p>
 <div class="sourceCode" id="cb8"><pre class="sourceCode r distill-force-highlighting-css"><code class="sourceCode r"></code></pre></div>
 <!--radix_placeholder_article_footer-->
 <div class="article-footer">
